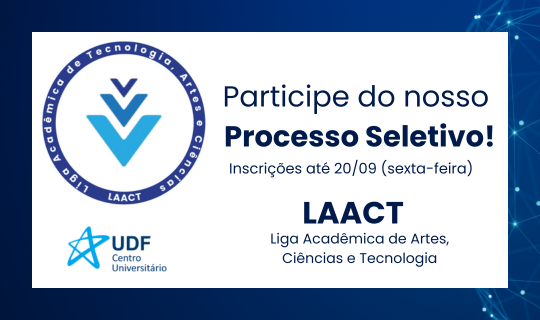
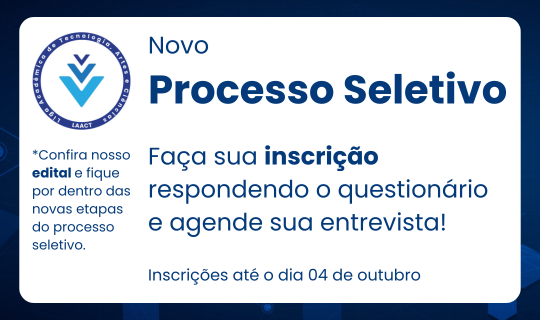
v2.0 atualização do passo a passo e imagem inicial
os textos das seções "what-we-do" foram atualizados

diff --git a/conteudos.html b/conteudos.html
@@ -213,96 +213,60 @@ https://templatemo.com/tm-574-mexant
           <div class="col-lg-12 align-self-center">
             <div class="accordions is-first-expanded">
                 <div class="accordion-head">
-                    <span>Período de Inscrições</span>
+                    <span>Processo Seletivo</span>
                     <span class="icon">
                         <i class="icon fa fa-chevron-right"></i>
                     </span>
                 </div>
                 <div class="accordion-body">
                     <div class="content">
-                        <p style="text-align: justify;">O período de inscrições para realizar a prova inicia dia 16/09/2024 e vai até 20/09/2024.</p>
+                      <p style="text-align: justify;">O processo seletivo visa <strong>selecionar estudantes
+                        acadêmicos</strong> dos Cursos de Análise e Desenvolvimento de Sistemas,
+                        Ciências da Computação, Sistemas da Informação, Engenharia de Software
+                        e Design Gráfico, para o ingresso na <strong>Liga
+                        Acadêmica de Artes, Ciências e Tecnologia - LAACT</strong>.</p>
                     </div>
                 </div>
             </article>
             <article class="accordion">
               <div class="accordion-head">
-                  <span>1ª Etapa - Prova</span>
+                  <span>Etapas</span>
                   <span class="icon">
                       <i class="icon fa fa-chevron-right"></i>
                   </span>
               </div>
               <div class="accordion-body">
                   <div class="content">
-                      <p style="text-align: justify;">A 1ª Etapa do Processo Seletivo consiste na realização da prova de conhecimentos gerais e específicos. Será composta por 20 questões objetivas e 1 questão discursiva de maior peso. <br><br>Data da prova: 21/09/2024
-                        </p>
+                    <p style="text-align: justify;">A seleção para o quadro de membros da LAACT compreenderá as seguintes etapas: <br><br><strong>Publicação do Edital: </strong>O Edital do Processo Seletivo será dovulgado a partir do dia 24 de setembro de 2024 <br><br><strong>1ª Etapa -</strong> Consiste em dois questionários feitos para conhecer as áreas de interesse, experiências prévias e os projetos dos candidatos:<br><br>Data: Até dia 04 de outubro de 2024;<br><br><strong>2ª Etapa -</strong> Será feita uma análise das respostas dos candidatos e uma entrevista com os selecionados: <br><br>Data: 28 e 29 de setembro e outra dia 05 e 06 de outubro;<br><br><strong>3ª Etapa - </strong>Nessa última etapa será divulgado o Resultado Oficial e o recebimento da documentação dos novos membros: <br><br>Data: 07 de outubro de 2024.
+                    </p>
                   </div>
               </div>
             </article>
             <article class="accordion">
               <div class="accordion-head">
-                  <span>Divulgação do Gabarito e Recurso</span>
+                  <span>Requisitos</span>
                   <span class="icon">
                       <i class="icon fa fa-chevron-right"></i>
                   </span>
               </div>
               <div class="accordion-body">
                   <div class="content">
-                      <p style="text-align: justify;">O gabarito da prova será divulgado dia 22/09/2024, nesse mesmo dia ficará disponível as solicitações para recurso.</p>
+                    <p style="text-align: justify;">Para se tornar membro efetivo da Liga, o interessado deve: <br><br>&bull; Estar regularmente matriculado em um dos cursos abrangidos. <br><br>&bull; Participar do processo seletivo promovido pela diretoria, com base em
+                      critérios técnicos, acadêmicos e éticos. <br><br>&bull; Firmar termo de compromisso com os objetivos e valores da Liga.</p>
                   </div>
               </div>
             </article>
             <article class="accordion">
               <div class="accordion-head">
-                  <span>Lista de Aprovados e Resultado do Recurso</span>
+                  <span>Datas</span>
                   <span class="icon">
                       <i class="icon fa fa-chevron-right"></i>
                   </span>
               </div>
               <div class="accordion-body">
                   <div class="content">
-                      <p style="text-align: justify;">Os resultados da 1ª etapa e dos pedidos de recursos estarão disponíveis dia 23/09/2024.
-                        </p>
-                  </div>
-              </div>
-            </article>
-            <article class="accordion">
-              <div class="accordion-head">
-                  <span>2ª Etapa - Entrevista</span>
-                  <span class="icon">
-                      <i class="icon fa fa-chevron-right"></i>
-                  </span>
-              </div>
-              <div class="accordion-body">
-                  <div class="content">
-                      <p style="text-align: justify;">As entrevistas acontecerão do dia 24/09/2024 e vão até o dia 29/09/2024.
-                        </p>
-                  </div>
-              </div>
-            </article>
-            <article class="accordion">
-              <div class="accordion-head">
-                  <span>Resultado Oficial</span>
-                  <span class="icon">
-                      <i class="icon fa fa-chevron-right"></i>
-                  </span>
-              </div>
-              <div class="accordion-body">
-                  <div class="content">
-                      <p style="text-align: justify;">O resultado oficial estará disponível a partir do dia 30/09/2024.
-                        </p>
-                  </div>
-              </div>
-            </article>
-            <article class="accordion">
-              <div class="accordion-head">
-                  <span>Apresentação dos Ligantes e Entrega da Documentação</span>
-                  <span class="icon">
-                      <i class="icon fa fa-chevron-right"></i>
-                  </span>
-              </div>
-              <div class="accordion-body">
-                  <div class="content">
-                      <p style="text-align: justify;">A apresentação dos ligantes e a entrega da documentação acontecerá dia 01/10/2024.
+                    <p style="text-align: justify;">Datas do Processo Seletivo - <br><br> <strong>&bull; 1ª Etapa -</strong><br><br>Questionários: 24 de setembro a 04 de outubro; <br><br><strong> &bull; 2ª Etapa - </strong>  <br><br>Entrevista: 28 e 29 de setembro e outra nos dias 05 e 06 de outubro; <br><br><strong>&bull; 3ª Etapa -</strong><br><br>Resultado e Entrega da Documentação: 07 de outubro de 2024.
+                    </p>
                   </div>
               </div>
             </article>
@@ -400,7 +364,7 @@ https://templatemo.com/tm-574-mexant
             <h4 style="text-align: center;">Quer aumentar suas chances de conseguir um estágio na área? <br><br>ENTRE PARA A LAACT!</h4>
             <p style="text-align: justify;">Não perca tempo! Participe do nosso <a href="edital.html">Processo Seletivo</a> e entre para nossa Liga Acadêmica!<br><br>Estaremos desenvolvendo projetos práticos que podem ter sua assinatura e estarem indo para SEU PORTFOLIO! <br><br> Sem dúvidas, um portfolio que contém projetos de grande impacto contam MUITO na hora de concorrer à uma vaga. <br><br>As atividades promovidas por uma Liga Acadêmica colaboram muito para o crescimento profissional e consolidação do aprendizado.</p>
             <div class="green-button">
-              <a href="edital.html">Edital Processo Seletivo</a>
+              <a href="estatuto.html">Estatuto</a>
             </div>
           </div>
         </div>
@@ -410,29 +374,29 @@ https://templatemo.com/tm-574-mexant
               <div class="col-lg-6">
                 <div class="item">
                   <em>1</em>
-                  <h4>Primeiro passo</h4>
-                  <p style="text-align: justify;">Responda aos Questionários.</p>
+                  <h4>Leia o Edital</h4>
+                  <p style="text-align: justify;">Leia o Edital do Processo Seletivo dispoível na seção Edital.</p>
                 </div>
-              </div>
+              </div>  
               <div class="col-lg-6">
                 <div class="item">
                   <em>2</em>
-                  <h4>Segundo passo </h4>
-                  <p style="text-align: justify;">Realize a prova dia 21/09 de 08:30 às 11:30.</p>
+                  <h4>Questionários</h4>
+                  <p style="text-align: justify;">Renponda os questionários para dar início na sua inscrição.</p>
                 </div>
               </div>
               <div class="col-lg-6">
                 <div class="item">
                   <em>3</em>
-                  <h4>Terceiro passo</h4>
-                  <p style="text-align: justify;">Faça sua entrevista com um membro da Diretoria Executiva (dia e horário a combinar).</p>
+                  <h4>Entrevista</h4>
+                  <p style="text-align: justify;">Faça a entrevista com um dos membros da Diretoria Executiva.</p>
                 </div>
               </div>
               <div class="col-lg-6">
                 <div class="item">
                   <em>4</em>
-                  <h4>Quarto passo</h4>
-                  <p style="text-align: justify;">Caso aprovado, envie os documentos e participe da recepção aos novos Ligantes.</p>
+                  <h4>Documentação</h4>
+                  <p style="text-align: justify;">Faça o envio dos documentos exigidos para concluir a inscrição.</p>
                 </div>
               </div>
             </div>

diff --git a/index.html b/index.html
@@ -166,9 +166,9 @@ https://templatemo.com/tm-574-mexant
               <div class="col-lg-6 align-self-center">
                 <div class="right-text-content">
                   <h4>Faça sua inscrição agora mesmo!</h4>
-                  <p>Não perca mais tempo! Faça sua inscrição agora mesmo e garanta sua vaga na nossa Liga Acadêmica de Tecnologia. Acesse:</p>
+                  <p>Não perca mais tempo! Faça sua inscrição agora mesmo e garanta sua vaga na nossa Liga Acadêmica de Tecnologia.</p>
                   <div class="green-button">
-                    <a style="margin-top: 2rem; background-color: green;" target="_blank" href="https://docs.google.com/forms/d/e/1FAIpQLScIuL-UcYyUgroNrZO1TwLrh0HNzLpjUs_rDHQ_tOy_I1VOBA/viewform?usp=sf_link">Formulário de Inscrição</a>
+                    <a style="margin-top: 2rem; background-color: green;" target="_blank" href="https://docs.google.com/forms/d/e/1FAIpQLSdGBt7zxufjc1_PeXUAH6XJ-85ajltMJMCtHVXp-qPYtG_R6w/viewform?usp=sf_link">Questionários</a>
                   </div>
                   <div class="orange-button">
                     <a style="margin-top: 2rem;" target="_blank" href="files/Processo Seletivo - LAACT.pdf">Edital do Processo Seletivo</a>
@@ -436,7 +436,7 @@ https://templatemo.com/tm-574-mexant
     </div>
   </section>
 
-  <section class="calculator">
+  <!-- <section class="calculator">
     <div class="container">
       <div class="row">
         <div class="col-lg-7">
@@ -491,9 +491,9 @@ https://templatemo.com/tm-574-mexant
         </div>
       </div>
     </div>
-  </section>
+  </section> -->
 
-  <section class="service-details">
+  <!-- <section class="service-details">
     <div class="container">
       <div class="row">
         <div class="col-lg-6 offset-lg-3">
@@ -527,8 +527,8 @@ https://templatemo.com/tm-574-mexant
                           <h4>Análise e Desenvolvimento de Sistemas</h4>
                           <p>O curso de ADS forma profissionais para projetar, desenvolver, implementar e manter sistemas de software, com foco em soluções eficientes e seguras para diferentes necessidades empresariais e de mercado.</p>
                           <span>- Duração: De 4 a 6 semestres</span>
-                          <!-- <span>- Is Cryptocurrency a good investment?</span>
-                          <span class="last-span">- Crypto Market Insiders and News</span> -->
+                          <span>- Is Cryptocurrency a good investment?</span>
+                          <span class="last-span">- Crypto Market Insiders and News</span>
                         </div>
                       </div>
                     </li>
@@ -541,8 +541,6 @@ https://templatemo.com/tm-574-mexant
                           <h4>Ciências da Computação</h4>
                           <p>O curso de Ciências da Computação foca no estudo teórico e prático da computação, abrangendo áreas como algoritmos, programação, inteligência artificial, segurança e arquitetura de sistemas.</p>
                           <span>- Duração: De 8 a 10 semestres</span>
-                          <!-- <span>- Trading Cryptocurrencies Online</span>
-                          <span class="last-span">- Different Categories of Digital Currencies</span> -->
                         </div>
                       </div>
                     </li>
@@ -555,8 +553,6 @@ https://templatemo.com/tm-574-mexant
                           <h4>Sistemas da Informação</h4>
                           <p>O curso de Sistemas de Informação capacita profissionais para gerenciar e desenvolver sistemas que integram tecnologia e processos de negócios para apoiar a tomada de decisões organizacionais.</p>
                           <span>- Duração: De 6 a 8 semestres</span>
-                          <!-- <span>- Business Networking</span>
-                          <span class="last-span">- Managing Digital Assets</span> -->
                         </div>
                       </div>
                     </li>
@@ -569,8 +565,6 @@ https://templatemo.com/tm-574-mexant
                           <h4>Engenharia de Software</h4>
                           <p>O curso de Engenharia de Software prepara profissionais para o desenvolvimento e gerenciamento de sistemas de software. O objetivo é criar soluções tecnológicas confiáveis que atendam às necessidades dos usuários e do mercado.</p>
                           <span>- Duração: De 8 a 10 semestres</span>
-                          <!-- <span>- Business Networking</span>
-                          <span class="last-span">- Managing Digital Assets</span> -->
                         </div>
                       </div>
                     </li>
@@ -583,8 +577,6 @@ https://templatemo.com/tm-574-mexant
                           <h4>Design Gráfico</h4>
                           <p>O curso de Design Gráfico capacita profissionais a criar e comunicar conceitos visuais eficazes em diversos meios, como impressos e digitais, visando criar soluções estéticas e funcionais que atendam às necessidades de comunicação e marketing de empresas e organizações.</p>
                           <span>- Duração: De 6 a 8 semestres</span>
-                          <!-- <span>- Business Networking</span>
-                          <span class="last-span">- Managing Digital Assets</span> -->
                         </div>
                       </div>
                     </li>
@@ -596,7 +588,7 @@ https://templatemo.com/tm-574-mexant
         </div>
       </div>
     </div>
-  </section>
+  </section> -->
 
   <!-- <section class="testimonials" id="testimonials">
     <div class="container">

diff --git a/estatuto.html b/estatuto.html
@@ -223,7 +223,7 @@ https://templatemo.com/tm-574-mexant
             <h4 style="text-align: center;">Quer aumentar suas chances de conseguir um estágio na área? <br><br>ENTRE PARA A LAACT!</h4>
             <p style="text-align: justify;">Não perca tempo! Participe do nosso <a href="edital.html">Processo Seletivo</a> e entre para nossa Liga Acadêmica!<br><br>Estaremos desenvolvendo projetos práticos que podem ter sua assinatura e estarem indo para SEU PORTFOLIO! <br><br> Sem dúvidas, um portfolio que contém projetos de grande impacto contam MUITO na hora de concorrer à uma vaga. <br><br>As atividades promovidas por uma Liga Acadêmica colaboram muito para o crescimento profissional e consolidação do aprendizado.</p>
             <div class="green-button">
-              <a href="edital.html">Edital Processo Seletivo</a>
+              <a href="estatuto.html">Estatuto</a>
             </div>
           </div>
         </div>
@@ -233,29 +233,29 @@ https://templatemo.com/tm-574-mexant
               <div class="col-lg-6">
                 <div class="item">
                   <em>1</em>
-                  <h4>Primeiro passo</h4>
-                  <p style="text-align: justify;">Responda aos Questionários.</p>
+                  <h4>Leia o Edital</h4>
+                  <p style="text-align: justify;">Leia o Edital do Processo Seletivo dispoível na seção Edital.</p>
                 </div>
-              </div>
+              </div>  
               <div class="col-lg-6">
                 <div class="item">
                   <em>2</em>
-                  <h4>Segundo passo </h4>
-                  <p style="text-align: justify;">Realize a prova dia 21/09 de 08:30 às 11:30.</p>
+                  <h4>Questionários</h4>
+                  <p style="text-align: justify;">Renponda os questionários para dar início na sua inscrição.</p>
                 </div>
               </div>
               <div class="col-lg-6">
                 <div class="item">
                   <em>3</em>
-                  <h4>Terceiro passo</h4>
-                  <p style="text-align: justify;">Faça sua entrevista com um membro da Diretoria Executiva (dia e horário a combinar).</p>
+                  <h4>Entrevista</h4>
+                  <p style="text-align: justify;">Faça a entrevista com um dos membros da Diretoria Executiva.</p>
                 </div>
               </div>
               <div class="col-lg-6">
                 <div class="item">
                   <em>4</em>
-                  <h4>Quarto passo</h4>
-                  <p style="text-align: justify;">Caso aprovado, envie os documentos e participe da recepção aos novos Ligantes.</p>
+                  <h4>Documentação</h4>
+                  <p style="text-align: justify;">Faça o envio dos documentos exigidos para concluir a inscrição.</p>
                 </div>
               </div>
             </div>

diff --git a/edital.html b/edital.html
@@ -203,29 +203,29 @@ https://templatemo.com/tm-574-mexant
               <div class="col-lg-6">
                 <div class="item">
                   <em>1</em>
-                  <h4>Primeiro passo</h4>
-                  <p style="text-align: justify;">Responda aos Questionários.</p>
+                  <h4>Leia o Edital</h4>
+                  <p style="text-align: justify;">Leia o Edital do Processo Seletivo dispoível na seção Edital.</p>
                 </div>
-              </div>
+              </div>  
               <div class="col-lg-6">
                 <div class="item">
                   <em>2</em>
-                  <h4>Segundo passo </h4>
-                  <p style="text-align: justify;">Realize a prova dia 21/09 de 08:30 às 11:30.</p>
+                  <h4>Questionários</h4>
+                  <p style="text-align: justify;">Renponda os questionários para dar início na sua inscrição.</p>
                 </div>
               </div>
               <div class="col-lg-6">
                 <div class="item">
                   <em>3</em>
-                  <h4>Terceiro passo</h4>
-                  <p style="text-align: justify;">Faça sua entrevista com um membro da Diretoria Executiva (dia e horário a combinar).</p>
+                  <h4>Entrevista</h4>
+                  <p style="text-align: justify;">Faça a entrevista com um dos membros da Diretoria Executiva.</p>
                 </div>
               </div>
               <div class="col-lg-6">
                 <div class="item">
                   <em>4</em>
-                  <h4>Quarto passo</h4>
-                  <p style="text-align: justify;">Caso aprovado, envie os documentos e participe da recepção aos novos Ligantes.</p>
+                  <h4>Documentação</h4>
+                  <p style="text-align: justify;">Faça o envio dos documentos exigidos para concluir a inscrição.</p>
                 </div>
               </div>
             </div>
